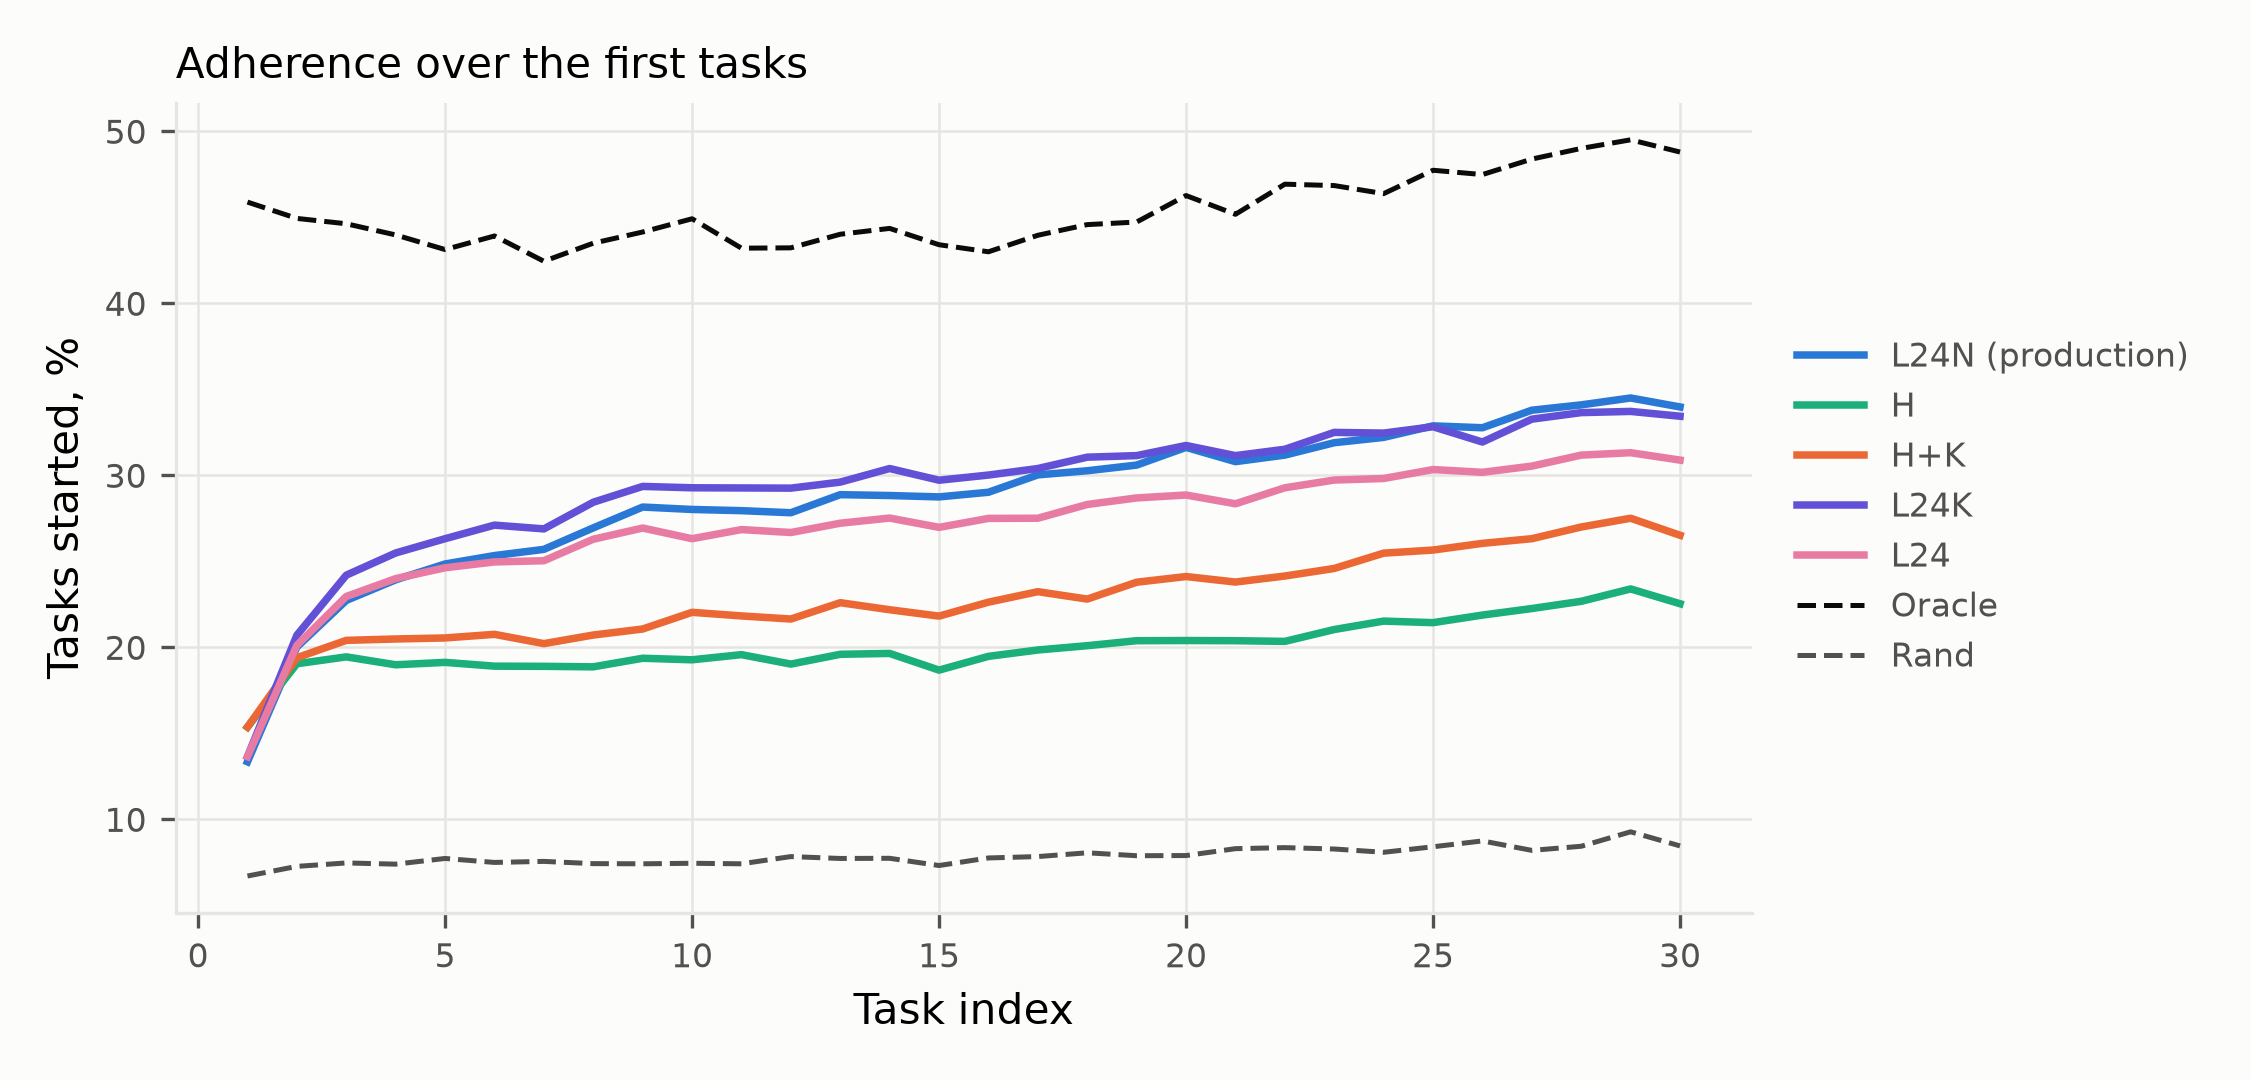
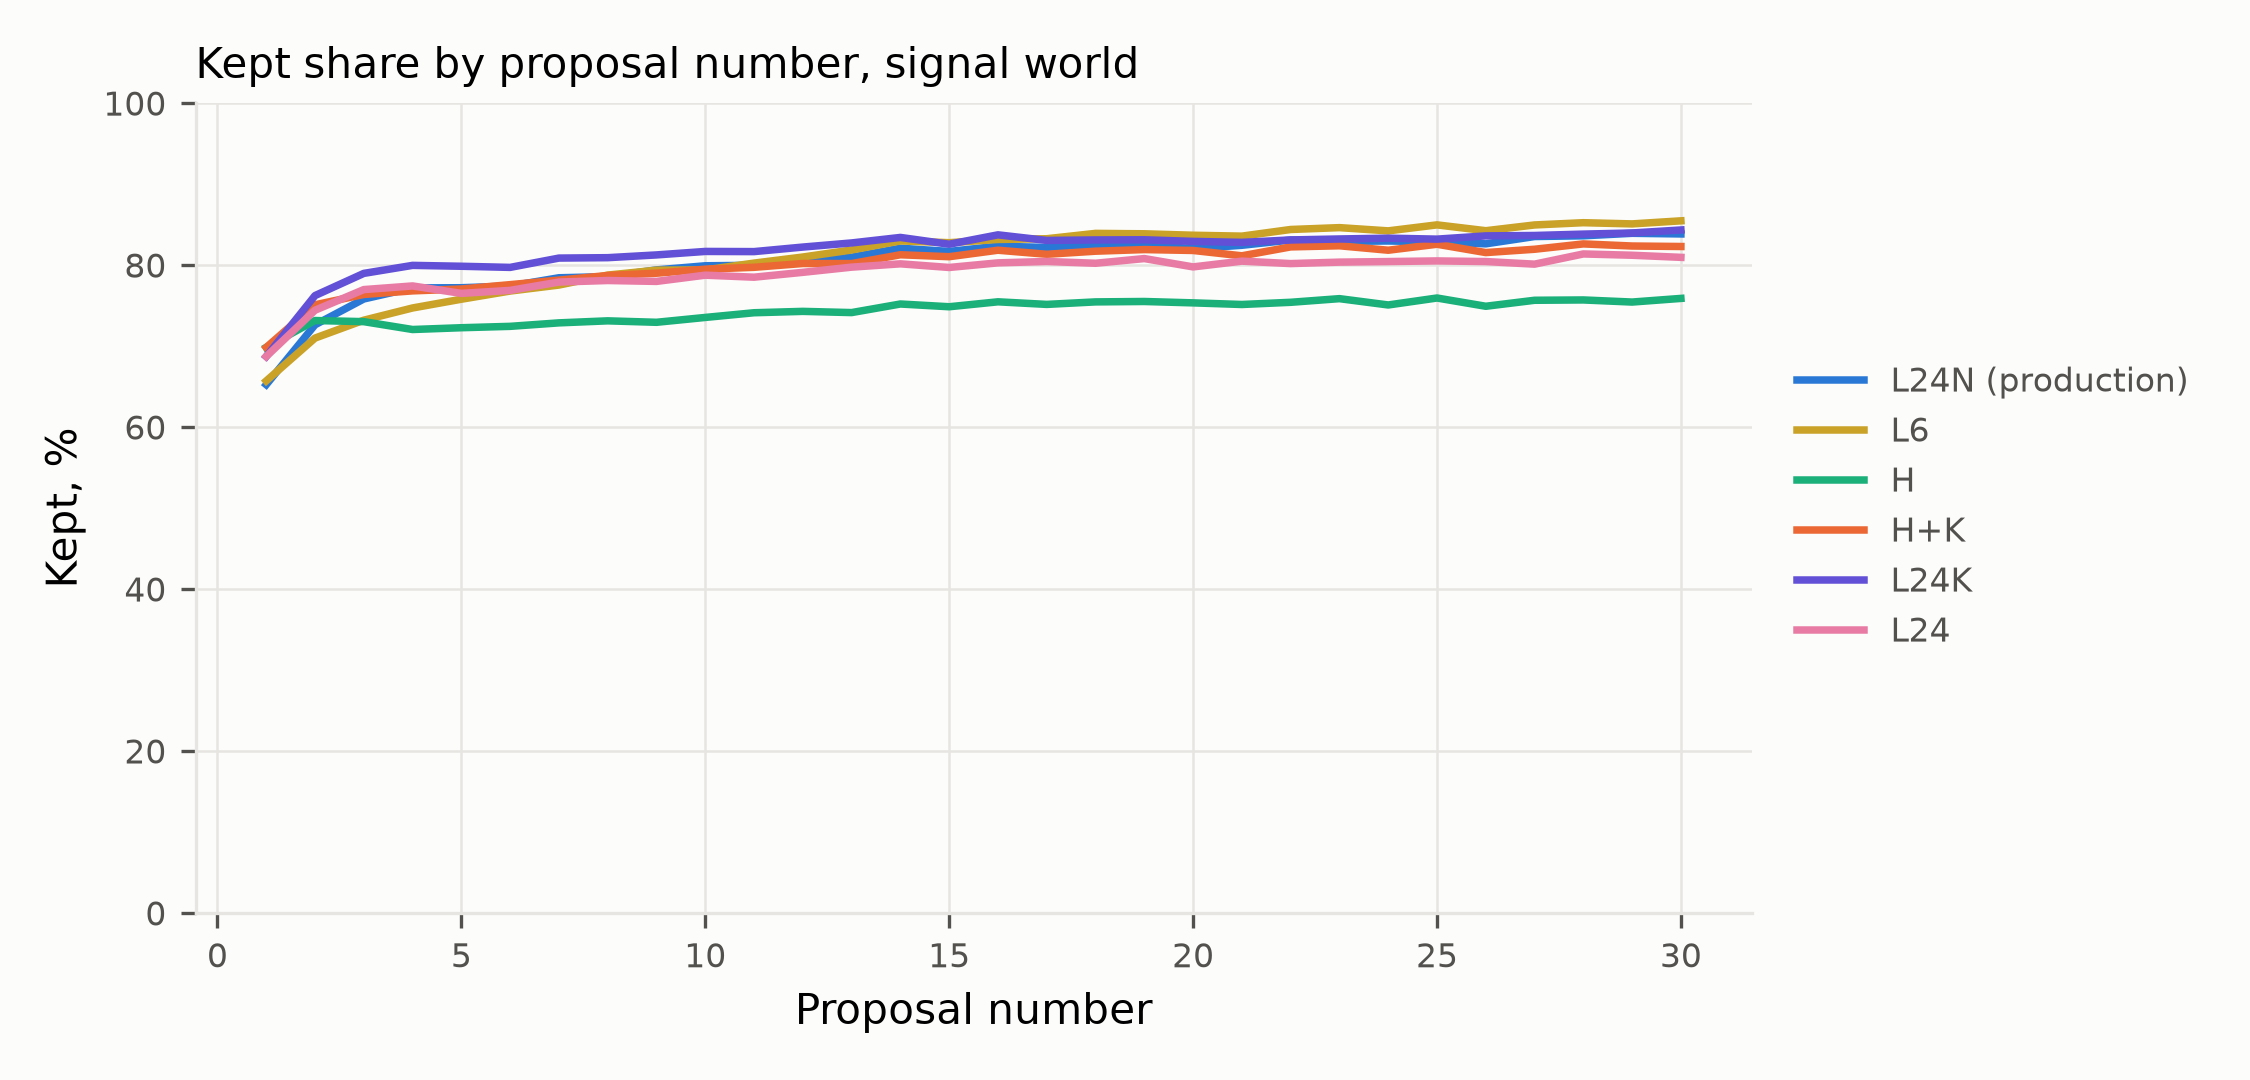
docs(scheduler): regenerate the figures on fresh seeds with heuristic metrics
Learning curve is kept by proposal number in the signal world. Regret is headline KEPT. Robustness is regret per proposal, L minus H+K, seeds 1000 to 1099.

diff --git a/services/bandit/evalx/figures.py b/services/bandit/evalx/figures.py
@@ -16,6 +16,7 @@ from pathlib import Path
 from typing import Any
 
 import matplotlib
+import numpy as np
 
 matplotlib.use("Agg")
 import matplotlib.pyplot as plt  # noqa: E402
@@ -280,6 +281,7 @@ def semester_learning(res: dict[str, Any], out: Path) -> None:
 # Order passes the light-mode CVD and normal-vision gates (validate_palette.js).
 PAPER_ARMS = (
     ("L", "L24N (production)", "#2a78d6"),
+    ("L6", "L6", "#c9a227"),
     ("H", "H", "#1baf7a"),
     ("H+K", "H+K", "#eb6834"),
     ("L-hourly-K", "L24K", "#6250d6"),
@@ -288,17 +290,33 @@ PAPER_ARMS = (
 PAPER_BOUNDS = (("Oracle", "Oracle", INK), ("Rand", "Rand", MUTED))
 
 
-def paper_learning(res: dict[str, Any], out: Path, tasks: int = 30) -> None:
+def _proposals(parts: Path) -> dict[str, list[list[float]]]:
+    """Per arm, each student's kept flags over placed proposals, in order."""
+    out: dict[str, list[list[float]]] = {}
+    for path in sorted(parts.glob("seed-*.json")):
+        for st in json.loads(path.read_text())["students"]:
+            for arm, rows in st["arms"].items():
+                placed = [r for r in rows if r.get("m") is not None]
+                out.setdefault(arm, []).append(
+                    [1.0 - r["mov"] - r["del"] for r in placed]
+                )
+    return out
+
+
+def paper_learning(parts: Path, out: Path, proposals: int = 30) -> None:
+    """Kept share by proposal number: the heuristic report's learning measure."""
+    kept = _proposals(parts)
     fig, ax = plt.subplots(figsize=(7.5, 3.6))
     for arm, label, colour in PAPER_ARMS:
-        ys = [100 * v for v in res["learning"][arm][:tasks]]
-        ax.plot(range(1, tasks + 1), ys, color=colour, lw=1.8, label=label)
-    for arm, label, colour in PAPER_BOUNDS:
-        ys = [100 * v for v in res["learning"][arm][:tasks]]
-        ax.plot(range(1, tasks + 1), ys, color=colour, lw=1.2, ls="--", label=label)
-    ax.set_xlabel("Task index")
-    ax.set_ylabel("Tasks started, %")
-    ax.set_title("Adherence over the first tasks", loc="left", fontsize=10)
+        ys = []
+        for k in range(proposals):
+            vals = [s[k] for s in kept[arm] if len(s) > k]
+            ys.append(100 * float(np.mean(vals)) if vals else float("nan"))
+        ax.plot(range(1, proposals + 1), ys, color=colour, lw=1.8, label=label)
+    ax.set_xlabel("Proposal number")
+    ax.set_ylabel("Kept, %")
+    ax.set_ylim(0, 100)
+    ax.set_title("Kept share by proposal number, signal world", loc="left", fontsize=10)
     ax.legend(
         frameon=False, fontsize=8, labelcolor=MUTED, loc="center left",
         bbox_to_anchor=(1.01, 0.5),
@@ -316,9 +334,9 @@ def paper_regret(res: dict[str, Any], out: Path) -> None:
     arm, label, colour = ("Rand", "Rand", MUTED)
     ax.plot(range(1, len(res["regret"][arm]) + 1), res["regret"][arm],
             color=colour, lw=1.2, ls="--", label=label)  # fmt: skip
-    ax.set_xlabel("Task index")
+    ax.set_xlabel("Proposal number")
     ax.set_ylabel("Cumulative regret per student")
-    ax.set_title("Regret against the Oracle", loc="left", fontsize=10)
+    ax.set_title("Regret against the Oracle, headline KEPT world", loc="left", fontsize=10)
     ax.legend(
         frameon=False, fontsize=8, labelcolor=MUTED, loc="center left",
         bbox_to_anchor=(1.01, 0.5),
@@ -328,41 +346,82 @@ def paper_regret(res: dict[str, Any], out: Path) -> None:
     _save(fig, out / "regret-curve.png", PAPER_DPI)
 
 
-def paper_robustness(rows: dict[str, Any], out: Path) -> None:
+def _cluster_ci(values: np.ndarray, groups: np.ndarray, draws: int = 2000) -> dict[str, float]:
+    """Mean with a student-cluster interval and a seed-cluster interval."""
+    rng = np.random.default_rng(0)
+    point = float(values.mean())
+    n = len(values)
+    students = np.array([values[rng.integers(0, n, n)].mean() for _ in range(draws)])
+    seeds = np.unique(groups)
+    per_seed = np.array([values[groups == g].mean() for g in seeds])
+    seed_draws = np.array(
+        [per_seed[rng.integers(0, len(seeds), len(seeds))].mean() for _ in range(draws)]
+    )
+    ci_lo, ci_hi = np.percentile(students, [2.5, 97.5])
+    seed_lo, seed_hi = np.percentile(seed_draws, [2.5, 97.5])
+    return {"mean": point, "ci_lo": ci_lo, "ci_hi": ci_hi, "seed_lo": seed_lo, "seed_hi": seed_hi}
+
+
+def robustness_regret(root: Path, pair: tuple[str, str]) -> dict[str, dict[str, float]]:
+    """Per world, regret per proposal of ``pair[0]`` minus ``pair[1]``, with intervals."""
+    from evalx.semester import REALITY
+
+    rows: dict[str, dict[str, float]] = {}
+    for idx, name in enumerate(REALITY):
+        parts = max(
+            (root / f"world-{idx:02d}" / "parts").iterdir(),
+            key=lambda d: len(list(d.glob("seed-*.json"))),
+        )
+        diffs, seeds = [], []
+        for path in sorted(parts.glob("seed-*.json")):
+            seed = int(path.stem.split("-")[1])
+            for st in json.loads(path.read_text())["students"]:
+                reg = {}
+                for arm in pair:
+                    p = st["proposal"][arm]
+                    reg[arm] = p["reg"] / p["n"] if p["n"] else 0.0
+                diffs.append(reg[pair[0]] - reg[pair[1]])
+                seeds.append(seed)
+        rows[name] = _cluster_ci(np.asarray(diffs), np.asarray(seeds))
+    return rows
+
+
+def paper_robustness(rows: dict[str, dict[str, float]], out: Path, pair: tuple[str, str]) -> None:
     worlds = list(rows)
     fig, ax = plt.subplots(figsize=(8, 0.28 * len(worlds) + 1.2))
     for i, name in enumerate(worlds):
-        keys = ("mean", "ci_lo", "ci_hi", "seed_lo", "seed_hi")
-        c = {k: 100 * rows[name]["L_minus_HK"][k] for k in keys}
-        _point(ax, i, c, PAPER_ARMS[0][2])
+        _point(ax, i, rows[name], PAPER_ARMS[0][2])
     ax.axvline(0, color=INK, lw=0.8)
     ax.set_yticks(range(len(worlds)), worlds)
     ax.invert_yaxis()
-    ax.set_xlabel(
-        "Adherence points, L24N (production) minus H+K (thin: students, thick: seeds)"
+    ax.set_xlabel(f"Regret per proposal, {pair[0]} minus {pair[1]} (below 0 favours {pair[0]})")
+    ax.set_title(
+        "Robustness, signal world, seeds 1000 to 1099 (thin: students, thick: seeds)",
+        loc="left", fontsize=10,
     )
-    ax.set_title("Robustness on seeds 700 to 799", loc="left", fontsize=10)
     _style(ax)
     _save(fig, out / "robustness-forest.png", PAPER_DPI)
 
 
-def paper_figures(run: Path, docs: Path) -> None:
-    """The paper's figures, from the held-out ladder and robustness runs."""
+def paper_figures(headline: Path, signal: Path, robust: Path, docs: Path) -> None:
+    """The paper's figures: regret from the headline run, kept from the signal run."""
     docs.mkdir(parents=True, exist_ok=True)
-    ladder = json.loads((run / "ladder-700" / "results.json").read_text())
-    rows = json.loads((run / "robust-700" / "reality.json").read_text())
-    paper_learning(ladder, docs)
-    paper_regret(ladder, docs)
-    paper_robustness(rows, docs)
+    res = json.loads((headline / "results.json").read_text())
+    paper_learning(next((signal / "parts").iterdir()), docs)
+    paper_regret(res, docs)
+    pair = ("L", "H+K")
+    paper_robustness(robustness_regret(robust, pair), docs, pair)
 
 
 def main() -> int:
     ap = argparse.ArgumentParser(prog="evalx.figures")
     ap.add_argument("--out", type=Path, default=Path(__file__).parent / "out")
     ap.add_argument("--paper", type=Path, help="docs/scheduler/figures for the paper")
+    ap.add_argument("--paper-signal", type=Path, help="signal world run dir")
+    ap.add_argument("--paper-robust", type=Path, help="robustness worlds run dir")
     args = ap.parse_args()
     if args.paper:
-        paper_figures(args.out, args.paper)
+        paper_figures(args.out, args.paper_signal, args.paper_robust, args.paper)
         return 0
     res = json.loads((args.out / "results.json").read_text())
     if "arms" in res:
